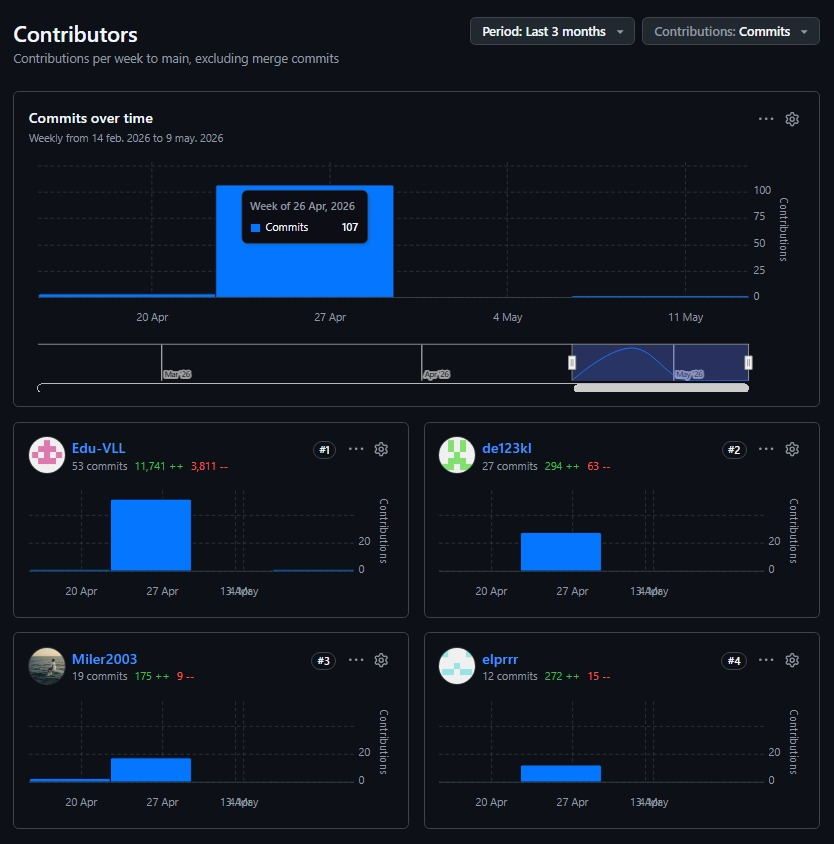
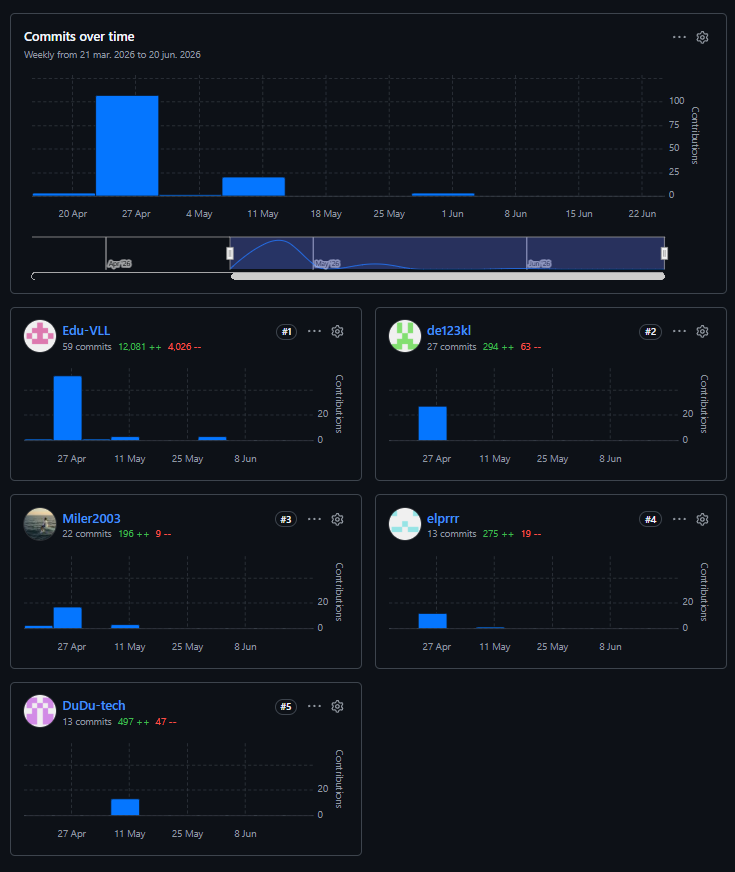
docs: update insights

diff --git a/README.md b/README.md
@@ -53,26 +53,15 @@ https://github.com/AgroTrack-Project/report
 <br>
 
 ![Foto de la claboracion](report/assets/contributors.png)
+ 
 
-  -----------------------------------------------------------------------
-  Integrante                  Tareas Designadas
-  --------------------------- -------------------------------------------
-  Alberto Joaquin Alfaro      Desarrollo y redacción del Capítulo I, y
-  Mallma                      apoyo en la elaboración de la Landing Page
-
-  Pablo Afranio Martinez      Desarrollo y redacción del Capítulo II y
-  Gaona                       apoyo en la elaboración de la Landing Page
-
-  Eder Edu Quispe Perez       Desarrollo y redacción del Capítulo III y
-                              apoyo en la elaboración de la Landing Page
-
-  Miler Alexander Rodriguez   Desarrollo y redacción del Capítulo IV y
-  Rojas                       apoyo en la elaboración de la Landing Page
-
-  Eduardo David Velasquez     Desarrollo y redacción del Capítulo V,
-  Laquihuanaco                consolidación del informe y apoyo en la
-                              elaboración de la Landing Page
-  -----------------------------------------------------------------------
+| Integrante | Tareas Designadas |
+|------------|-------------------|
+| Alberto Joaquin Alfaro Mallma | Desarrollo y redacción del Capítulo I, y apoyo en la elaboración de la Landing Page |
+| Pablo Afranio Martinez Gaona | Desarrollo y redacción del Capítulo II y apoyo en la elaboración de la Landing Page |
+| Eder Edu Quispe Perez | Desarrollo y redacción del Capítulo III y apoyo en la elaboración de la Landing Page |
+| Miler Alexander Rodriguez Rojas | Desarrollo y redacción del Capítulo IV y apoyo en la elaboración de la Landing Page |
+| Eduardo David Velasquez Laquihuanaco | Desarrollo y redacción del Capítulo V, consolidación del informe y apoyo en la elaboración de la Landing Page |
 
 <br>
 <br>
@@ -193,6 +182,7 @@ El curso contribuye al cumplimiento del Student Outcome ABET - EAC - Student Out
 | Comunica oralmente con efectividad a diferentes rangos de audiencia. | <br>**Alberto Joaquin Alfaro Mallma** <br> **AV1:** Realizó la entrevista N°6 al empresario agrícola Cristofer Ordalla (Piura), adaptando el lenguaje técnico a un perfil no especializado en tecnología para obtener información sobre la gestión de sus parcelas y sus expectativas frente a una solución digital. <br><br> **TB1:** Expuso ante el equipo las decisiones de implementación del bounded context Support & Dashboard en la Web Application, explicando oralmente cómo se estructuraron los componentes Angular para la visualización del panel de control y el módulo de soporte al usuario. <br><br> **AV2:** Explicó la implementación backend de los Bounded Contexts Support y Dashboard, presentando los servicios desarrollados para la gestión de tickets de soporte y la consulta de métricas relacionadas con rendimiento, pérdidas y consumo de agua. <br><br> **Pablo Afranio Martinez Gaona** <br> **AV1:** Participó en la sesión colaborativa de Big Picture Event Storming, comunicando oralmente al equipo los eventos, comandos y actores del dominio agrícola identificados, facilitando la comprensión compartida del sistema entre miembros con distintos niveles de conocimiento del negocio. <br><br> **TB1:** Presentó al equipo el bounded context Soil Monitoring implementado en la Web Application, describiendo oralmente el flujo de visualización de datos de monitoreo de suelos y justificando las decisiones de diseño de componentes frente a los demás integrantes. <br><br> **AV2:** Explicó la implementación backend del Bounded Context Soil Monitoring, detallando el registro de lecturas de humedad y temperatura, la gestión de recomendaciones de riego, las validaciones del dominio y la integración preparada con Farming para eliminar los datos relacionados con una parcela. <br><br> **Eder Edu Quispe Perez** <br> **AV1:** Realizó las entrevistas N°2 y N°3 a las agricultoras Lucía Alarcón (Amazonas) y Luz Mamani (Arequipa), comunicando el propósito del proyecto de forma clara y accesible a usuarias con poca experiencia tecnológica, logrando que expresaran sus necesidades y frustraciones con confianza. <br><br> **TB1:** Sustentó ante el equipo las decisiones de implementación de los bounded contexts Identity y Farming en la Web Application, explicando oralmente cómo se estructuraron las vistas de autenticación y gestión de parcelas y cultivos en Angular para satisfacer las necesidades de los segmentos objetivo. <br><br> **AV2:** Explicó el funcionamiento del backend del Bounded Context Farming, incluyendo la gestión de parcelas y cultivos, sus principales reglas de negocio y la relación de este contexto con otros módulos del sistema. <br><br> **Miler Alexander Rodriguez Rojas** <br> **AV1:** Realizó las entrevistas N°1 y N°4 al agricultor Walter Medina (Chachapoyas) y al empresario agrícola Renzo Quispe (Lima), ajustando el tono y el nivel de detalle de las preguntas según el perfil de cada entrevistado para facilitar respuestas claras y comparables. <br><br> **TB1:** Expuso ante el equipo el bounded context Climate Alerts implementado en la Web Application, comunicando oralmente el flujo de visualización y gestión de alertas climáticas en Angular y coordinando con los responsables de Soil Monitoring y Farming la coherencia visual y funcional entre módulos. <br><br> **AV2:** Presentó la implementación backend del Bounded Context Climate Alerts, explicando cómo se gestionan las alertas climáticas y cómo estas pueden ser consultadas por la aplicación web.<br><br> **Eduardo David Velasquez Laquihuanaco** <br> **AV1:** Expuso ante el equipo los resultados del análisis de competidores (CropX, Trimble Ag, Agroptima), sintetizando verbalmente las diferencias estratégicas relevantes para orientar las decisiones de diseño del producto hacia el segmento peruano desatendido. <br><br> **TB1:** Comunicó oralmente al equipo el diseño e implementación del bounded context Identity en la Web Application, explicando las decisiones sobre las vistas de registro e inicio de sesión en Angular y articulando cómo este módulo actúa como punto de entrada transversal para los demás bounded contexts del sistema. <br><br> **AV2:** Explicó el desarrollo backend del Bounded Context Identity, incluyendo la gestión de usuarios, planes de suscripción y preferencias de alertas mediante endpoints REST. | El equipo demostró capacidad de comunicación oral efectiva al conducir seis entrevistas con agricultores y empresarios agrícolas de distintas regiones del Perú (Amazonas, Arequipa, Lima, Piura), adaptando el vocabulario y el nivel de detalle técnico según el perfil de cada entrevistado. En el TB1, cada integrante lideró la implementación de un bounded context en la Web Application y comunicó oralmente sus decisiones de diseño e implementación al resto del equipo, fortaleciendo la comprensión compartida de la arquitectura de la solución. En el AV2 el equipo comunicó de manera organizada los avances realizados en los distintos Bounded Contexts del backend, presentando las funcionalidades, endpoints y principales decisiones técnicas de cada implementación.|
 | Comunica por escrito con efectividad a diferentes rangos de audiencia. | <br>**Alberto Joaquin Alfaro Mallma** <br> **AV1:** Redactó las Style Guidelines del producto (tipografía, paleta de colores, espaciado, tono de voz), comunicando por escrito los criterios visuales y editoriales de AgroTrack de forma que sean comprensibles tanto para el equipo de desarrollo como para evaluadores externos. <br><br> **TB1:** Documentó por escrito la implementación del bounded context Support & Dashboard en la Web Application, redactando en el informe del Sprint 2 la descripción de los componentes Angular desarrollados y las vistas de panel de control y soporte, de forma comprensible para evaluadores técnicos y no técnicos.<br><br> **AV2:** Implementó y documentó los endpoints correspondientes a Support y Dashboard, registrando mediante commits el desarrollo de la gestión de tickets y de las métricas utilizadas por el dashboard. <br><br> **Pablo Afranio Martinez Gaona** <br> **AV1:** Redactó el análisis FODA de AgroTrack y las estrategias y tácticas frente a competidores, estructurando la información de forma clara para una audiencia de negocio que requiere argumentación estratégica y no solo descripción técnica del producto. <br><br> **TB1:** Documentó el bounded context Soil Monitoring en el informe del Sprint 2, describiendo por escrito los componentes Angular implementados para la visualización de datos de humedad y nutrientes del suelo, asegurando que la documentación sea interpretable por desarrolladores y evaluadores externos.<br><br> **AV2:** Implementó y documentó las Technical Stories del Bounded Context Soil Monitoring, correspondientes a los endpoints de lecturas de suelo y recomendaciones de riego. Asimismo, registró los avances mediante commits y documentó las reglas de negocio, validaciones, persistencia e integración con el BC Farming. <br><br> **Eder Edu Quispe Perez** <br> **AV1:** Desarrolló la Landing Page de AgroTrack con soporte bilingüe (EN/ES) mediante el sistema i18n implementado en JavaScript, garantizando que la propuesta de valor del producto se comunique por escrito de forma efectiva tanto a usuarios hispanohablantes como angloparlantes. <br><br> **TB1:** Redactó en el informe del Sprint 2 la documentación de los bounded contexts Identity y Farming implementados en la Web Application, detallando los componentes Angular de autenticación y gestión de parcelas y cultivos de forma clara para audiencias técnicas y evaluadores del curso.<br><br> **AV2:** Implementó y documentó los servicios REST del Bounded Context Farming para la gestión de parcelas y cultivos, incluyendo las operaciones necesarias para crear, consultar, actualizar y eliminar estos recursos. <br><br> **Miler Alexander Rodriguez Rojas** <br> **AV1:** Redactó las secciones de Needfinding (User Personas, User Task Matrix, User Journey Mapping y Empathy Mapping), traduciendo los hallazgos cualitativos de las entrevistas en documentos estructurados comprensibles para audiencias de diseño y de negocio. <br><br> **TB1:** Documentó el bounded context Climate Alerts en el informe del Sprint 2, redactando por escrito la descripción de los componentes Angular desarrollados para la visualización y gestión de alertas climáticas, garantizando que la especificación sea comprensible para desarrolladores y evaluadores con distintos niveles de familiaridad con el dominio agrícola.<br><br> **AV2:** Implementó y documentó los endpoints del Bounded Context Climate Alerts, dejando evidencia escrita de las funcionalidades desarrolladas para gestionar y consultar las alertas climáticas. <br><br> **Eduardo David Velasquez Laquihuanaco** <br> **AV1:** Redactó el Ubiquitous Language y contribuyó a la especificación de User Stories y Technical Stories, asegurando que los términos del dominio agrícola (Plot, Crop, Soil Moisture, Weather Alert) estén definidos con precisión para audiencias técnicas y no técnicas por igual. <br><br> **TB1:** Documentó por escrito el bounded context Identity en el informe del Sprint 2, describiendo los componentes Angular de registro, inicio de sesión y gestión de perfiles implementados en la Web Application, comunicando las decisiones de implementación de forma clara para audiencias técnicas y evaluadores del curso. <br><br> **AV2:** Implementó y documentó los endpoints del Bounded Context Identity para usuarios, planes de suscripción y preferencias de alertas, incluyendo sus criterios de aceptación y contratos REST.  | El equipo evidenció comunicación escrita efectiva a múltiples audiencias a lo largo del informe: los capítulos de introducción y problemática están redactados en lenguaje accesible orientado al lector no técnico, mientras que las secciones de User Stories, Technical Stories y especificaciones de API están dirigidas a una audiencia técnica especializada. La Landing Page, desarrollada en HTML/CSS/JS con soporte bilingüe (EN/ES), demuestra la capacidad del equipo de comunicar la propuesta de valor del producto de forma escrita clara y persuasiva a dos segmentos diferenciados de usuarios. En el TB1, cada integrante documentó por escrito su bounded context en el informe del Sprint 2, describiendo los componentes Angular desarrollados en la Web Application de forma comprensible para distintas audiencias. En el AV2, La documentación elaborada por los integrantes permitió dejar evidencia clara de las funcionalidades implementadas en cada Bounded Context. El uso de Technical Stories, criterios de aceptación, commits, documentación REST y evidencias de Swagger facilitó la revisión del trabajo, la integración de los módulos y la comprensión del backend por parte del equipo y de otros interesados en el proyecto.|
  
+<br>
 
 # Capítulo I: Introducción
 
